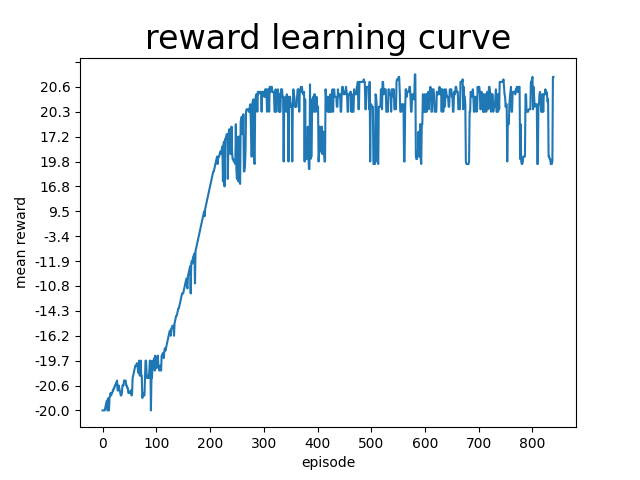
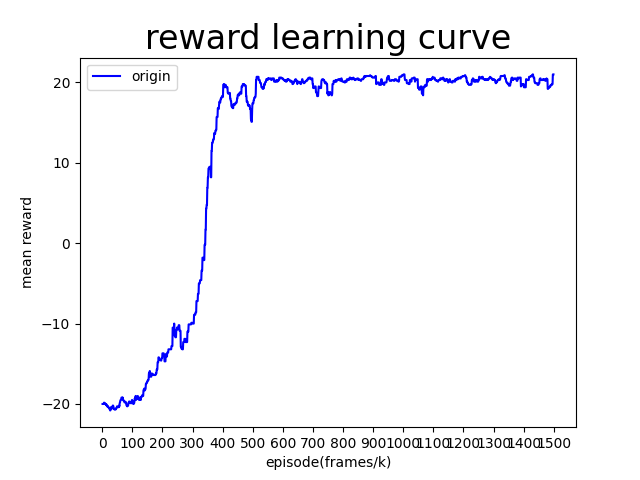
refactor: show_index

diff --git a/src/utils/plotTraining.py b/src/utils/plotTraining.py
@@ -7,11 +7,11 @@ import matplotlib.pyplot as plt
 from matplotlib import ticker
 from matplotlib.pyplot import MultipleLocator
 
-from src.config.config import TRAIN_LOG_PATH, TRAIN_LOG_FILE, IMG_PATH, TRAIN_LOG_FILE_LR, IMG_FILE
+from src.config.config import TRAIN_LOG_PATH, TRAIN_LOG_FILE, IMG_PATH, TRAIN_LOG_FILE_LR, IMG_FILE, IMG_FILE_LR
 
 
 # show or save tht plt of the train
-def plot_training(episodes_list, rewards_list, is_save=True, is_compare=True):
+def plot_training(episodes_list, rewards_list, show_index=0, is_save=True, is_compare=True):
     clear_output(True)
     # title and label
     plt.title('reward learning curve', fontsize=24)
@@ -28,12 +28,15 @@ def plot_training(episodes_list, rewards_list, is_save=True, is_compare=True):
 
     # fig, ax = plt.subplots()
     # set the plot
-    plt.plot(episodes_list[0], rewards_list[0], color='blue', label="origin")
+    config_list = [('blue', 'origin', IMG_FILE), ('red', 'lr', IMG_FILE_LR)]
+    plt.plot(episodes_list[show_index], rewards_list[show_index],
+             color=config_list[show_index][0], label=config_list[show_index][1])
     if is_compare:
-        plt.plot(episodes_list[1], rewards_list[1], color="red", label="lr")
+        plt.plot(episodes_list[1 - show_index], rewards_list[1 - show_index],
+                 color=config_list[1-show_index][0], label=config_list[1-show_index][1])
     plt.legend()
     if is_save:
-        plt.savefig(os.path.join(IMG_PATH, IMG_FILE))
+        plt.savefig(os.path.join(IMG_PATH, config_list[show_index][2]))
     plt.show()
 
 
@@ -47,7 +50,7 @@ def save_plt_reward_frame():
     e_lr, r_lr = get_episodes_rewards(TRAIN_LOG_FILE_LR)
     episodes_list.append(e_lr)
     rewards_list.append(r_lr)
-    plot_training(episodes_list, rewards_list)
+    plot_training(episodes_list, rewards_list, show_index=0, is_compare=False)
 
 
 def get_episodes_rewards(file_str):
@@ -58,9 +61,8 @@ def get_episodes_rewards(file_str):
         title_list = next(csv_reader)  # 读取第一行每一列的标题，或者略过第一行有问题的数据
         for row in csv_reader:  # 将csv 文件中的数据保存到birth_data中
             episode = row[0]
-            episode = int(episode)/1000
+            episode = int(episode) / 1000
             reward = row[2]
             episode_list.append(episode)
             reward_list.append(reward)
     return list(map(int, episode_list)), list(map(float, reward_list))
-

diff --git a/main.py b/main.py
@@ -4,6 +4,6 @@ from src.utils.dir_processor import create_dir
 from src.utils.plotTraining import save_plt_reward_frame
 
 if __name__ == '__main__':
-    create_dir([TRAIN_LOG_PATH, VIDEO_PATH, TEMP_PATH, RESULT_PATH, IMG_PATH])
-    train()
+    # create_dir([TRAIN_LOG_PATH, VIDEO_PATH, TEMP_PATH, RESULT_PATH, IMG_PATH])
+    # train()
     save_plt_reward_frame()

diff --git a/src/config/config.py b/src/config/config.py
@@ -35,6 +35,7 @@ VIDEO_PATH = os.path.join("videos", "dqnPongVideo")
 # image save path
 IMG_PATH = "img"
 IMG_FILE = "reward_learning_curve"
+IMG_FILE_LR = "reward_learning_curve_lr"
 # test model
 TEST_FRAMES = 100000
 # train log file
